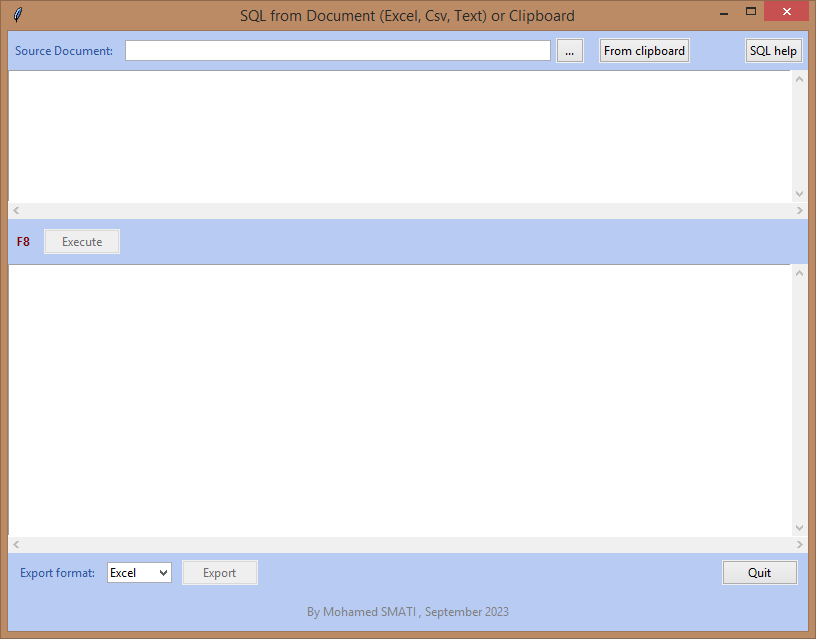
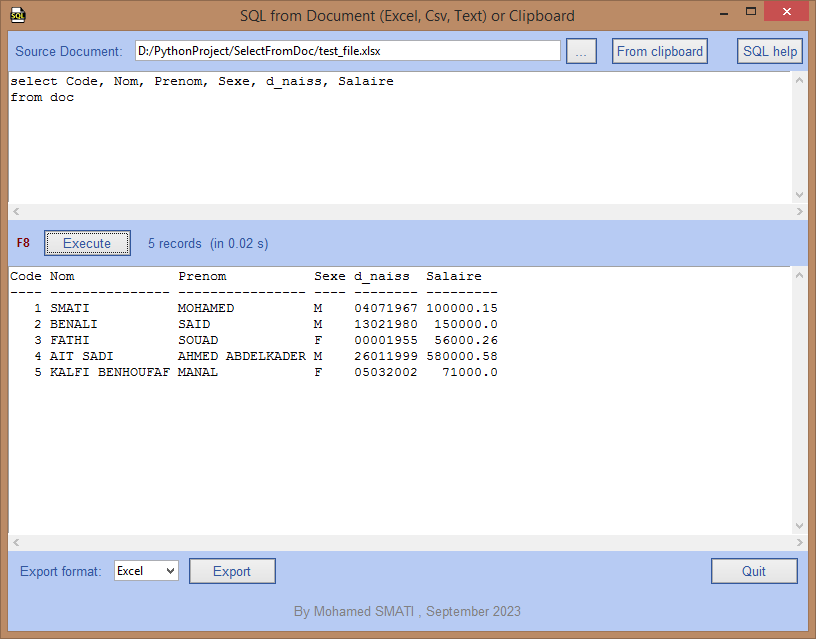
modify colors

diff --git a/SelectFromDoc.py b/SelectFromDoc.py
@@ -27,7 +27,8 @@ screen_height = root.winfo_screenheight()
 root.geometry(f'{root_width}x{root_height}+{(screen_width-root_width) // 2}+{(screen_height-root_height) // 2}')
 
 root.title('SQL from Document (Excel, Csv, Text) or Clipboard')
-
+# root.iconbitmap(path.abspath(path.join(path.dirname(__file__), 'SelectFromDoc.ico')))
+root.iconbitmap('SelectFromDoc.ico')
 
 def on_resize(event):
     # Update the size of 'frame_sql_resultat' when the window is resized
@@ -73,6 +74,7 @@ def ouvrir_Sql_Aide():
             text_aide['wrap'] = 'none'
     
     Sql_Aide = tk.Toplevel()
+    Sql_Aide.iconbitmap('SelectFromDoc.ico')
     Sql_Aide.title("SQL help")
     win_width = 550
     win_height = 370
@@ -98,12 +100,12 @@ def ouvrir_Sql_Aide():
 
     frame_enbas = ttk.Frame(Sql_Aide)
     frame_enbas.grid(row=1, column=0, sticky='WE')
-    ttk.Style().configure("Custom.TFrame", background=bg_couleur)
+    ttk.Style().configure("Custom.TFrame", background=bg_color_default)
     frame_enbas.configure(style="Custom.TFrame")
 
     wordWrap = IntVar()
     option_wordwrap = ttk.Checkbutton(frame_enbas, text="Word wrap", variable=wordWrap, onvalue=1, offvalue=0, width=10, command=changerWordWrap)
-    ttk.Style().configure("Custom.TCheckbutton", foreground=fg_couleur, background=bg_couleur)
+    ttk.Style().configure("Custom.TCheckbutton", foreground=fg_color_default_Label, background=bg_color_default)
     option_wordwrap.configure(style="Custom.TCheckbutton")
     option_wordwrap.pack(side=LEFT)
 
@@ -645,22 +647,26 @@ current_row = 0
 
 root.grid_columnconfigure(0, weight=1)   # makes the widgets with sticky='WE' fill all the width
 
-bg_couleur = "#b7cbf3"  # #e7ecf6
-fg_couleur = "#31579D"
-fg_couleur2 = "maroon"
-# bg_couleur = "#31579D"   # "#82d8bb"
-# fg_couleur = "white"    # #e7ecf6 , "black"
-# fg_couleur2 = "yellow"   # "#800"
-fg_couleur3 = "gray"   # "#808080"
+# Colors
+bg_color_default = "#b7cbf3"
+fg_color_default_Label = "#31579D"
+fg_color_default_Label_ShortcutKey = "maroon"
+fg_color_default_Label_Copyright = "gray"
+bg_color_default_Button = "#31579D"
+fg_color_default_Button = "#31579D"
 
-ttk.Style().configure('TFrame', background=bg_couleur)
+# --- Default styles
+style = ttk.Style()
+style.configure('TFrame', background=bg_color_default)
+style.configure('TLabel', foreground=fg_color_default_Label, background=bg_color_default, font=("Helvetica", 10))
+style.configure('TButton', foreground=fg_color_default_Button, background=bg_color_default_Button, font=("Helvetica", 10))
 
 # --- docSource
 frame_1 = ttk.Frame(root)
 frame_1.grid(row=current_row, column=0, columnspan=5, sticky='WE')
 
 lbl_path = ttk.Label(frame_1, text="Source Document:")
-lbl_path.configure(foreground=fg_couleur, background=bg_couleur)
+# lbl_path.configure(foreground=fg_color_default_Label, background=bg_color_default)
 lbl_path.pack(side=LEFT, padx=5, pady=10)
 
 docSource = StringVar()
@@ -701,17 +707,17 @@ frame_2.grid(row=current_row, column=0, columnspan=5, sticky='WE')
 
 # --- bouton Executer
 lblF8 = ttk.Label(frame_2,text="F8")
-ttk.Style().configure("Bold.TLabel", font=("TkDefaultFont", 9, "bold"))
-lblF8.configure(style="Bold.TLabel", foreground=fg_couleur2, background=bg_couleur)
+# ttk.Style().configure("Bold.TLabel", font=("TkDefaultFont", 9, "bold"))
+style.configure("Bold.TLabel", font=("TkDefaultFont", 9, "bold"), foreground=fg_color_default_Label_ShortcutKey, background=bg_color_default)
+lblF8.configure(style="Bold.TLabel")
 lblF8.pack(side=LEFT, padx=7)
-# ttk.Label(frame_2,text="F8", fg="#800", bg=bg_couleur).pack(side=LEFT)
 boutonExecuter = ttk.Button(frame_2, text="  Execute  ", state="disabled", command=Executer)
 boutonExecuter.pack(side=LEFT, padx=5, pady=10)
 
 # --- Temps d'execution
 vTempsExec = StringVar()
 lblTempsExec = ttk.Label(frame_2, textvariable=vTempsExec)
-lblTempsExec.configure(foreground=fg_couleur, background=bg_couleur)
+# lblTempsExec.configure(foreground=fg_color_default_Label, background=bg_color_default)
 lblTempsExec.pack(side=LEFT, padx=10, pady=10)
 
 current_row += 1
@@ -741,8 +747,8 @@ frame_3.grid(row=current_row, column=0, columnspan=5, sticky='WE')
 
 # --- Export
 lblExport = ttk.Label(frame_3,text="Export format:")
-lblExport.configure(foreground=fg_couleur, background=bg_couleur)
-lblExport.pack(side=LEFT, padx=10, pady=10)   # , bg=bg_couleur
+# lblExport.configure(foreground=fg_color_default_Label, background=bg_color_default)
+lblExport.pack(side=LEFT, padx=10, pady=10)   # , bg=bg_color_default
 
 exportFormat = StringVar()
 exportFormat.set("Excel")
@@ -766,7 +772,7 @@ current_row += 1
 # --- copyright label
 m_smati = (77, 111, 104, 97, 109, 101, 100, 32, 83, 77, 65, 84, 73)
 lbl_copyright = ttk.Label(root, text="By " + ''.join((chr(i) for i in m_smati)) + " , September 2023", anchor=CENTER) #, height=2)  #, fg="#808080"
-lbl_copyright.configure(foreground=fg_couleur3, background=bg_couleur)
+lbl_copyright.configure(foreground=fg_color_default_Label_Copyright) #, background=bg_color_default)
 lbl_copyright.grid(row=current_row, column=0, columnspan=5, ipady=10, sticky="WENS")
 current_row += 1
 
